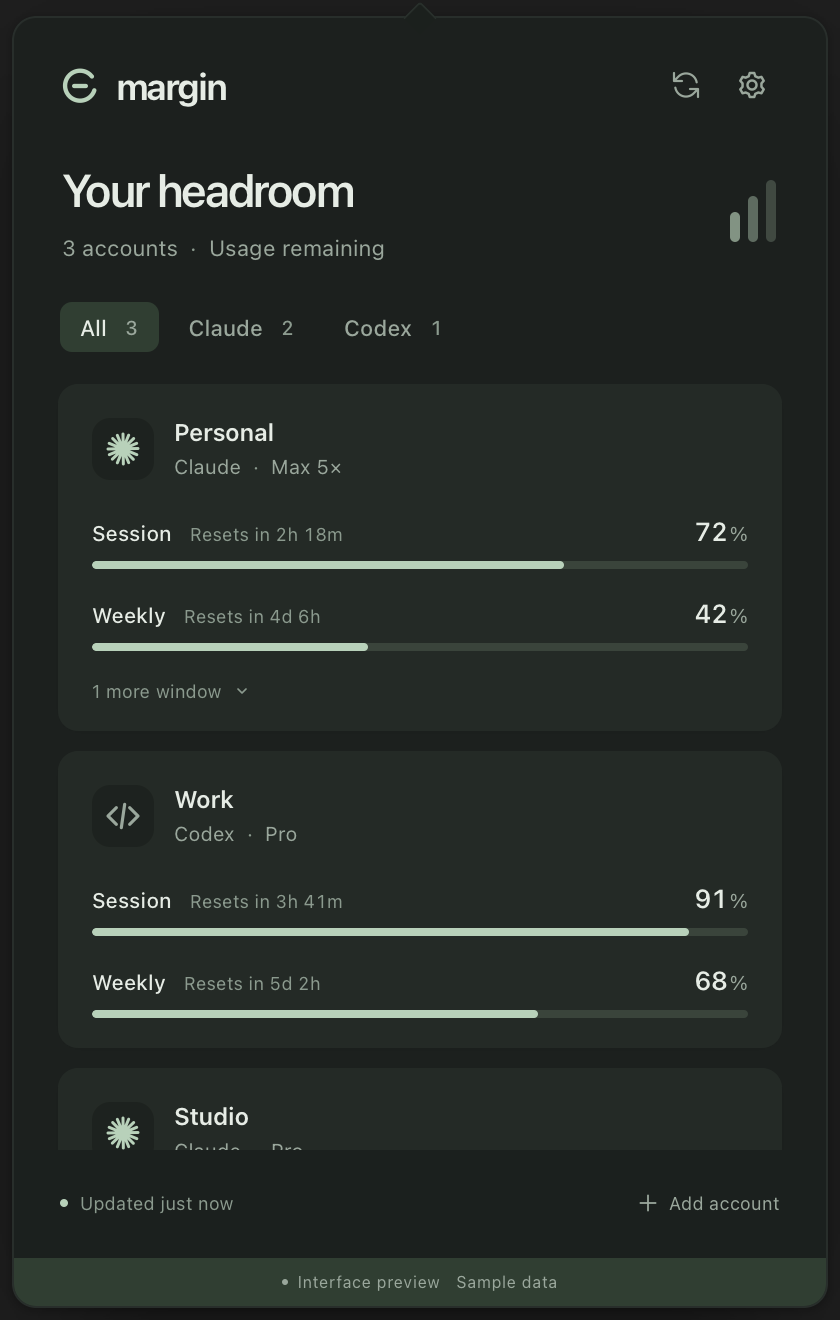
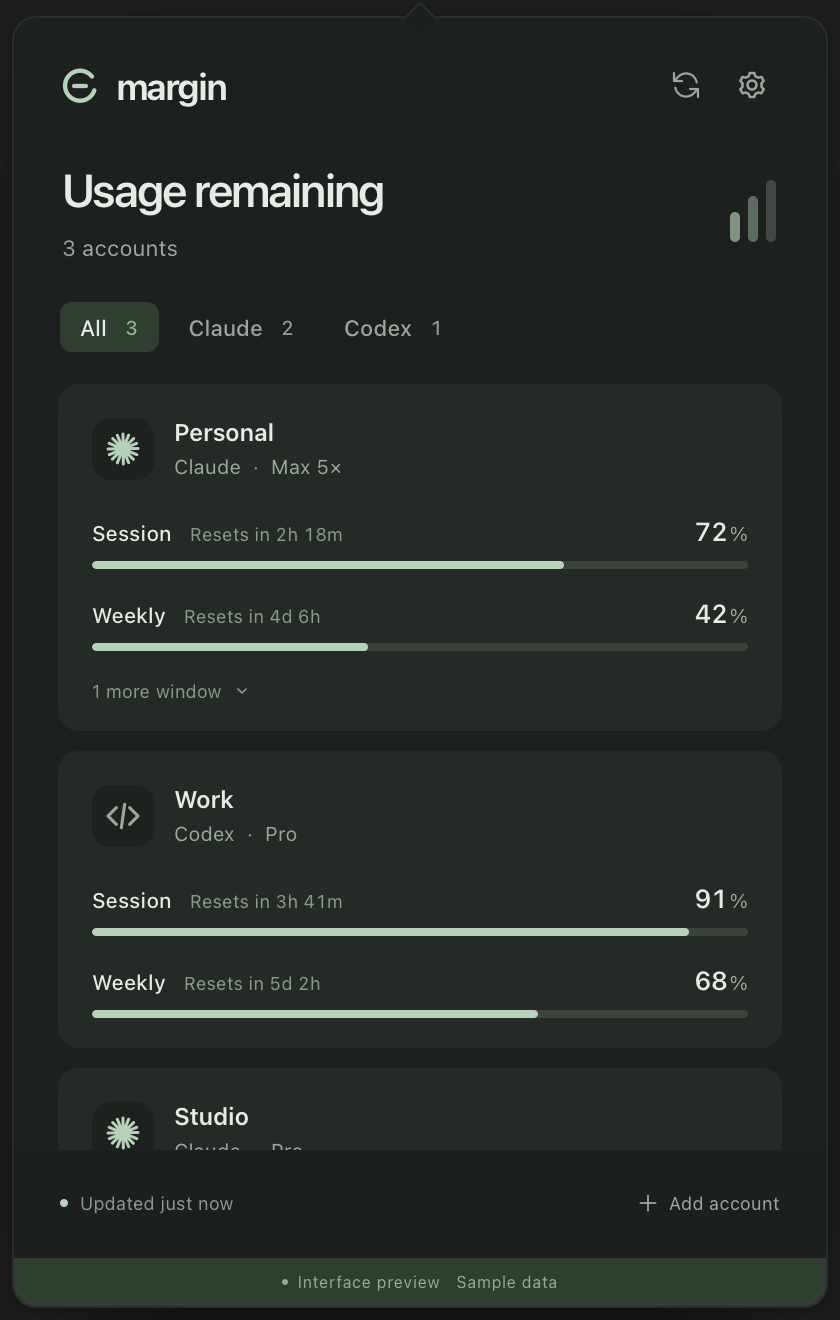
Simplify app wording and add release changelogs

Changed region(s): [[0.0619, 0.1242, 0.4643, 0.1864], [0.2786, 0.1864, 0.4333, 0.2174]]

diff --git a/src/components/SettingsPanel.vue b/src/components/SettingsPanel.vue
@@ -158,7 +158,7 @@ async function confirmRemove(): Promise<void> {
 <template>
   <AlertDialogRoot :open="removeTarget !== null" @update:open="closeRemove">
     <TabsRoot :model-value="tab" class="settings-view" @update:model-value="setTab">
-      <header class="settings-header"><button class="icon-button back-button" aria-label="Back to overview" @click="$emit('back')"><AppIcon name="back" :size="18"/></button><h1>Settings</h1><span class="settings-autosave">Saved automatically</span></header>
+      <header class="settings-header"><button class="icon-button back-button" aria-label="Back to overview" @click="$emit('back')"><AppIcon name="back" :size="18"/></button><h1>Settings</h1><span class="settings-autosave">Saves automatically</span></header>
       <TabsList class="settings-tabs" aria-label="Settings sections">
         <TabsTrigger value="general">General</TabsTrigger>
         <TabsTrigger value="accounts">Accounts <span>{{ accounts.length }}</span></TabsTrigger>
@@ -170,7 +170,7 @@ async function confirmRemove(): Promise<void> {
           <div class="theme-options"><button v-for="theme in themes" :key="theme.id" class="theme-option" :class="{ selected: settings.theme === theme.id }" :aria-pressed="settings.theme === theme.id" :disabled="busy" @click="patchSettings({ theme: theme.id })"><span class="theme-thumbnail" :class="`thumbnail-${theme.id}`"><span/><span/><span/></span><span><AppIcon :name="theme.icon" :size="13"/>{{ theme.label }}</span><span v-if="settings.theme === theme.id" class="theme-check"><AppIcon name="check" :size="10"/></span></button></div>
         </section>
         <section class="settings-section">
-          <h2>Menu bar &amp; refresh</h2>
+          <h2>Tray &amp; refresh</h2>
           <div class="setting-row">
             <div><label for="tray-account">Tray account</label><p>Shows the lowest remaining window.</p></div>
             <AppSelect id="tray-account" :model-value="selectedMode" :options="trayOptions" :disabled="busy" @update:model-value="setTray"/>
@@ -186,19 +186,19 @@ async function confirmRemove(): Promise<void> {
         </section>
         <section class="settings-section">
           <h2>Notifications</h2>
-          <div class="setting-row"><div><span id="notification-label" class="setting-label">Usage reminders</span><p>A heads-up as a window fills up.</p></div><AppSwitch :model-value="settings.notifications" aria-labelledby="notification-label" :disabled="busy" @update:model-value="patchSettings({ notifications: $event })"/></div>
+          <div class="setting-row"><span id="notification-label" class="setting-label">Usage alerts</span><AppSwitch :model-value="settings.notifications" aria-labelledby="notification-label" :disabled="busy" @update:model-value="patchSettings({ notifications: $event })"/></div>
           <div class="threshold-options" :class="{ 'is-disabled': !settings.notifications }"><span>Notify at</span><button v-for="threshold in [80, 95, 100]" :key="threshold" class="threshold-chip" :class="{ selected: settings.thresholds.includes(threshold) }" :aria-pressed="settings.thresholds.includes(threshold)" :aria-label="`Notify at ${threshold}% used`" :disabled="busy || !settings.notifications" @click="toggleThreshold(threshold)"><AppIcon v-if="settings.thresholds.includes(threshold)" name="check" :size="11"/>{{ threshold }}%</button><span>used</span></div>
         </section>
         <section class="settings-section">
           <h2>Startup</h2>
-          <div class="setting-row"><div><span id="autostart-label" class="setting-label">Launch at login</span><p>Ready when you are.</p></div><AppSwitch :model-value="settings.autostart" aria-labelledby="autostart-label" :disabled="busy" @update:model-value="patchSettings({ autostart: $event })"/></div>
+          <div class="setting-row"><span id="autostart-label" class="setting-label">Launch at login</span><AppSwitch :model-value="settings.autostart" aria-labelledby="autostart-label" :disabled="busy" @update:model-value="patchSettings({ autostart: $event })"/></div>
         </section>
         <UpdateSettings :state="updateState" :busy="updateBusy" :demo="demo" @check="$emit('checkUpdate')" @install="$emit('installUpdate')"/>
-        <p class="settings-footnote"><AppIcon name="margin" :size="13"/>Margin {{ version }}<span>Made for a little more clarity.</span></p>
+        <p class="settings-footnote">Version {{ version }}</p>
       </TabsContent>
 
       <TabsContent value="accounts" class="settings-content accounts-settings">
-        <div class="section-heading"><div><h2>Your accounts</h2><p>Connected through your local CLI.</p></div><button class="text-button discover-button" :disabled="busy" @click="$emit('discover')"><AppIcon name="refresh" :size="13"/>Find accounts</button></div>
+        <div class="section-heading"><div><h2>Your accounts</h2><p>From your CLI logins.</p></div><button class="text-button discover-button" :disabled="busy" @click="$emit('discover')"><AppIcon name="refresh" :size="13"/>Find accounts</button></div>
         <div v-if="!accounts.length" class="settings-empty"><AppIcon name="folder" :size="28"/><p>No accounts connected.</p><span>Find a signed-in Claude or Codex account, or add a config folder below.</span></div>
         <article v-for="account in accounts" :key="account.id" class="managed-account">
           <div class="managed-account-heading"><span class="provider-mark small" :class="account.provider"><AppIcon :name="account.provider" :size="17"/></span><div class="managed-account-copy"><h3>{{ account.label }}</h3><p>{{ account.identity.email ?? providerName(account.provider) }}</p></div><AppTooltip text="Rename account"><button class="icon-button" :aria-label="`Rename ${account.label}`" :disabled="busy" @click="startRename(account)"><AppIcon name="edit" :size="14"/></button></AppTooltip><AppTooltip text="Remove account"><button class="icon-button remove-button" :aria-label="`Remove ${account.label}`" :disabled="busy" @click="openRemove(account, $event)"><AppIcon name="trash" :size="14"/></button></AppTooltip></div>
@@ -207,7 +207,7 @@ async function confirmRemove(): Promise<void> {
         </article>
         <button v-if="!adding" ref="addAccountButton" class="add-account-button" :disabled="busy" @click="openAdd"><AppIcon name="plus" :size="16"/>Add account</button>
         <form v-else class="add-account-form" @submit.prevent="submitAccount"><div class="form-heading"><h3>Add account</h3><button class="icon-button" type="button" aria-label="Cancel adding account" @click="adding = false"><AppIcon name="close" :size="15"/></button></div><div class="provider-options"><button v-for="choice in providerSchema.options" :key="choice" type="button" :class="{ selected: provider === choice }" :aria-pressed="provider === choice" @click="provider = choice"><AppIcon :name="choice" :size="16"/>{{ providerName(choice) }}</button></div><label for="account-path">Config folder</label><input id="account-path" ref="pathInput" v-model="path" class="text-input" :placeholder="provider === 'claude' ? '~/.claude-work' : '~/.codex-work'" autocomplete="off" spellcheck="false" :disabled="busy" :aria-invalid="Boolean(formError)" :aria-describedby="formError ? 'path-help path-error' : 'path-help'"><p id="path-help">The folder containing {{ provider === 'claude' ? '.credentials.json' : 'auth.json' }}. Sign in with the CLI first.</p><p v-if="formError" id="path-error" class="field-error" role="alert">{{ formError }}</p><button class="button button-primary" type="submit" :disabled="busy">Connect account<AppIcon name="plus" :size="14"/></button></form>
-        <div class="privacy-note"><AppIcon name="check" :size="14"/><p>Your credentials stay on this device. Margin reads usage without changing your CLI accounts.</p></div>
+        <div class="privacy-note"><AppIcon name="check" :size="14"/><p>Margin reads your CLI credentials without changing them.</p></div>
       </TabsContent>
     </TabsRoot>
 
@@ -216,7 +216,7 @@ async function confirmRemove(): Promise<void> {
         <AlertDialogContent class="confirm-dialog" @escape-key-down="escapeRemove" @close-auto-focus="restoreRemoveFocus">
           <span class="dialog-icon"><AppIcon name="trash" :size="20"/></span>
           <AlertDialogTitle as="h2">Remove {{ removeTarget?.label }}?</AlertDialogTitle>
-          <AlertDialogDescription as="p">This removes the account from Margin. Your CLI credentials stay untouched.</AlertDialogDescription>
+          <AlertDialogDescription as="p">Removes the account from Margin. CLI credentials are not deleted.</AlertDialogDescription>
           <p v-if="removeFailed" class="field-error" role="alert">Couldn’t remove this account. Try again.</p>
           <div class="dialog-actions"><AlertDialogCancel class="button" tabindex="0" :disabled="busy">Keep account</AlertDialogCancel><button ref="removeButton" class="button button-danger" tabindex="0" :disabled="busy" @click="confirmRemove">Remove account</button></div>
         </AlertDialogContent>

diff --git a/design/directions.html b/design/directions.html
@@ -8,11 +8,11 @@
   </style>
 </head>
 <body>
-  <header><div><div class="eyebrow">Margin / visual exploration</div><h1>A little more breathing room.</h1><p>Three directions for a quiet, considered home for Claude and Codex usage. Same information, different character. All values below are sample data.</p></div><button onclick="document.body.classList.toggle('dark')">Swap appearances</button></header>
+  <header><div><div class="eyebrow">Margin / visual exploration</div><h1>Design directions</h1><p>Three layouts for Claude and Codex usage. All values are sample data.</p></div><button onclick="document.body.classList.toggle('dark')">Switch theme</button></header>
   <main class="directions">
-    <section class="graphite"><div class="label"><b>01 / Graphite</b><span>Selected direction</span></div><div class="popover"><div class="head"><i></i>margin<span>↻ &nbsp; ⚙</span></div><div class="title">Your headroom</div><div class="meta">3 accounts. One quiet place.</div><div class="account"><div class="account-head"><div class="logo">✳</div>Personal<span class="plan">CLAUDE MAX</span></div><div class="row"><span>Session<small>Resets in 2h 18m</small></span><b>72%</b></div><div class="bar"><div style="width:72%"></div></div><div class="row"><span>Weekly<small>Resets in 4d 6h</small></span><b>42%</b></div><div class="bar"><div style="width:42%"></div></div></div><div class="account"><div class="account-head"><div class="logo">⌘</div>Work<span class="plan">CODEX PRO</span></div><div class="row"><span>Session<small>Resets in 3h 41m</small></span><b>91%</b></div><div class="bar"><div style="width:91%"></div></div><div class="row"><span>Weekly<small>Resets in 5d 2h</small></span><b>68%</b></div><div class="bar"><div style="width:68%"></div></div></div><div class="footer"><span>● Updated just now</span><span>＋ Add account</span></div></div><p class="note">Quiet graphite, soft sage, generous rhythm. Information is the interface. Warm daylight appearance.</p></section>
-    <section class="ivory"><div class="label"><b>02 / Paper</b><span>Warm / tactile</span></div><div class="popover"><div class="head"><i></i>margin<span>↻ &nbsp; ⚙</span></div><div class="title">Space to think.</div><div class="meta">Your accounts, comfortably in view.</div><div class="account"><div class="account-head"><div class="logo">✳</div>Personal<span class="plan">CLAUDE MAX</span></div><div class="row"><span>Session<small>2h 18m</small></span><b>72%</b></div><div class="bar"><div style="width:72%"></div></div><div class="row"><span>Weekly<small>4d 6h</small></span><b>42%</b></div><div class="bar"><div style="width:42%"></div></div></div><div class="account"><div class="account-head"><div class="logo">⌘</div>Work<span class="plan">CODEX PRO</span></div><div class="row"><span>Session<small>3h 41m</small></span><b>91%</b></div><div class="bar"><div style="width:91%"></div></div><div class="row"><span>Weekly<small>5d 2h</small></span><b>68%</b></div><div class="bar"><div style="width:68%"></div></div></div><div class="footer"><span>● Everything is up to date</span><span>＋ Add account</span></div></div><p class="note">Soft paper and olive. More domestic than technical. Charcoal and muted moss after dark.</p></section>
-    <section class="instrument"><div class="label"><b>03 / Instrument</b><span>Compact / precise</span></div><div class="popover"><div class="head"><i></i>margin<span>↻ &nbsp; ⚙</span></div><div class="title">42<small>% lowest remaining</small></div><div class="meta">Personal · Claude · Weekly window</div><div class="account"><div class="account-head"><div class="logo">✳</div>Personal<span class="plan">CLAUDE MAX</span></div><div class="row"><span>SESSION / 02:18</span><b>72%</b></div><div class="bar"><div style="width:72%"></div></div><div class="row"><span>WEEKLY / 04:06:00</span><b>42%</b></div><div class="bar"><div style="width:42%"></div></div></div><div class="account"><div class="account-head"><div class="logo">⌘</div>Work<span class="plan">CODEX PRO</span></div><div class="row"><span>SESSION / 03:41</span><b>91%</b></div><div class="bar"><div style="width:91%"></div></div><div class="row"><span>WEEKLY / 05:02:00</span><b>68%</b></div><div class="bar"><div style="width:68%"></div></div></div><div class="footer"><span>● SYNCED 12:04:18</span><span>＋ ACCOUNT</span></div></div><p class="note">Dense, almost an instrument panel. A prominent limiting window and a precise rhythm.</p></section>
+    <section class="graphite"><div class="label"><b>01 / Graphite</b><span>Selected direction</span></div><div class="popover"><div class="head"><i></i>margin<span>↻ &nbsp; ⚙</span></div><div class="title">Usage remaining</div><div class="meta">3 accounts</div><div class="account"><div class="account-head"><div class="logo">✳</div>Personal<span class="plan">CLAUDE MAX</span></div><div class="row"><span>Session<small>Resets in 2h 18m</small></span><b>72%</b></div><div class="bar"><div style="width:72%"></div></div><div class="row"><span>Weekly<small>Resets in 4d 6h</small></span><b>42%</b></div><div class="bar"><div style="width:42%"></div></div></div><div class="account"><div class="account-head"><div class="logo">⌘</div>Work<span class="plan">CODEX PRO</span></div><div class="row"><span>Session<small>Resets in 3h 41m</small></span><b>91%</b></div><div class="bar"><div style="width:91%"></div></div><div class="row"><span>Weekly<small>Resets in 5d 2h</small></span><b>68%</b></div><div class="bar"><div style="width:68%"></div></div></div><div class="footer"><span>● Updated just now</span><span>＋ Add account</span></div></div><p class="note">Graphite surfaces, sage accents, and a light theme.</p></section>
+    <section class="ivory"><div class="label"><b>02 / Paper</b><span>Warm / tactile</span></div><div class="popover"><div class="head"><i></i>margin<span>↻ &nbsp; ⚙</span></div><div class="title">Usage remaining</div><div class="meta">3 accounts</div><div class="account"><div class="account-head"><div class="logo">✳</div>Personal<span class="plan">CLAUDE MAX</span></div><div class="row"><span>Session<small>2h 18m</small></span><b>72%</b></div><div class="bar"><div style="width:72%"></div></div><div class="row"><span>Weekly<small>4d 6h</small></span><b>42%</b></div><div class="bar"><div style="width:42%"></div></div></div><div class="account"><div class="account-head"><div class="logo">⌘</div>Work<span class="plan">CODEX PRO</span></div><div class="row"><span>Session<small>3h 41m</small></span><b>91%</b></div><div class="bar"><div style="width:91%"></div></div><div class="row"><span>Weekly<small>5d 2h</small></span><b>68%</b></div><div class="bar"><div style="width:68%"></div></div></div><div class="footer"><span>● Everything is up to date</span><span>＋ Add account</span></div></div><p class="note">Cream and olive in light mode. Charcoal and moss in dark mode.</p></section>
+    <section class="instrument"><div class="label"><b>03 / Instrument</b><span>Compact / precise</span></div><div class="popover"><div class="head"><i></i>margin<span>↻ &nbsp; ⚙</span></div><div class="title">42<small>% lowest remaining</small></div><div class="meta">Personal · Claude · Weekly window</div><div class="account"><div class="account-head"><div class="logo">✳</div>Personal<span class="plan">CLAUDE MAX</span></div><div class="row"><span>SESSION / 02:18</span><b>72%</b></div><div class="bar"><div style="width:72%"></div></div><div class="row"><span>WEEKLY / 04:06:00</span><b>42%</b></div><div class="bar"><div style="width:42%"></div></div></div><div class="account"><div class="account-head"><div class="logo">⌘</div>Work<span class="plan">CODEX PRO</span></div><div class="row"><span>SESSION / 03:41</span><b>91%</b></div><div class="bar"><div style="width:91%"></div></div><div class="row"><span>WEEKLY / 05:02:00</span><b>68%</b></div><div class="bar"><div style="width:68%"></div></div></div><div class="footer"><span>● SYNCED 12:04:18</span><span>＋ ACCOUNT</span></div></div><p class="note">Compact layout with the lowest remaining quota at the top.</p></section>
   </main>
 </body>
 </html>

diff --git a/src/App.vue b/src/App.vue
@@ -47,7 +47,7 @@ const status = computed(() => {
   if (connectionError.value) return 'Connection interrupted'
   if (staleCount.value) return `${staleCount.value} ${staleCount.value === 1 ? 'account needs' : 'accounts need'} attention`
   if (latestFetch.value) return `Updated ${relativeAge(latestFetch.value, now.value)}`
-  return 'Ready to connect'
+  return state.value.accounts.length ? 'Waiting for usage' : 'No accounts connected'
 })
 
 watch(counts, value => {
@@ -137,11 +137,11 @@ onUnmounted(() => {
   <div class="preview-stage" :class="{ 'desktop-stage': desktop && !demo }">
     <div v-if="!desktop && !demo" class="desktop-gate">
       <span class="gate-logo"><AppIcon name="margin" :size="36"/></span>
-      <p class="eyebrow">CLAUDE + CODEX, IN VIEW</p><h1>A little more<br>headroom.</h1>
-      <p class="gate-description">Margin lives in your menu bar. Your accounts, usage windows, and reset times. In one quiet place.</p>
-      <a class="button button-primary" href="https://github.com/Abulkosim/usagebar/releases" target="_blank" rel="noopener noreferrer">Get the desktop app<AppIcon name="external" :size="14"/></a>
-      <a class="preview-link" href="?demo=1">Explore the interface <span>with sample data</span><AppIcon name="chevron" :size="12"/></a>
-      <p class="gate-footnote">macOS &amp; Windows · Your credentials stay on your device</p>
+      <p class="eyebrow">CLAUDE + CODEX</p><h1>Track your usage.</h1>
+      <p class="gate-description">See account limits and reset times in the macOS menu bar or Windows system tray.</p>
+      <a class="button button-primary" href="https://github.com/Abulkosim/usagebar/releases" target="_blank" rel="noopener noreferrer">Download Margin<AppIcon name="external" :size="14"/></a>
+      <a class="preview-link" href="?demo=1">Preview <span>with sample data</span><AppIcon name="chevron" :size="12"/></a>
+      <p class="gate-footnote">Reads CLI credentials without changing them.</p>
     </div>
 
     <div v-else class="app-shell" :class="{ 'is-preview': demo }">
@@ -150,13 +150,13 @@ onUnmounted(() => {
         <div v-if="state.notice" class="notice-banner" role="alert"><AppIcon name="alert" :size="13"/><span>{{ state.notice }}</span></div>
         <template v-if="page === 'overview'">
           <header class="app-header"><div class="wordmark"><AppIcon name="margin" :size="20"/><span>margin</span></div><div class="header-actions"><AppTooltip :text="refreshing ? 'Checking usage' : `Refresh usage (${isWindows ? 'Ctrl+R' : '⌘R'})`"><button class="icon-button refresh-button" :class="{ pulsing: refreshing }" aria-label="Refresh usage" :disabled="busy || refreshing" @click="refresh"><AppIcon name="refresh" :size="16"/></button></AppTooltip><AppTooltip :text="`Settings (${isWindows ? 'Ctrl+,' : '⌘,'})`"><button class="icon-button" aria-label="Open settings" @click="openSettings()"><AppIcon name="settings" :size="18"/></button></AppTooltip></div></header>
-          <div class="overview-heading"><div><h1>Your headroom</h1><p>{{ state.accounts.length ? `${state.accounts.length} ${state.accounts.length === 1 ? 'account' : 'accounts'}` : 'A little clarity for your day' }}<template v-if="state.accounts.length"><span class="middot">·</span>Usage remaining</template></p></div><span v-if="state.accounts.length" class="overview-symbol" aria-hidden="true"><span/><span/><span/></span></div>
+          <div class="overview-heading"><div><h1>Usage remaining</h1><p>{{ state.accounts.length ? `${state.accounts.length} ${state.accounts.length === 1 ? 'account' : 'accounts'}` : 'Claude and Codex' }}</p></div><span v-if="state.accounts.length" class="overview-symbol" aria-hidden="true"><span/><span/><span/></span></div>
           <div v-if="state.accounts.length > 1" class="account-filters" role="group" aria-label="Filter by provider"><button v-for="option in filterOptions" :key="option.id" :class="{ active: filter === option.id }" :aria-pressed="filter === option.id" @click="filter = option.id">{{ option.label }}<span>{{ counts[option.id] }}</span></button></div>
 
           <main class="accounts-scroll" :class="{ 'empty-scroll': !state.accounts.length }" aria-label="Account usage">
             <div v-if="loading" class="initial-loading" role="status" aria-label="Loading accounts"><div v-for="index in 2" :key="index" class="skeleton-card"><div class="skeleton skeleton-heading"/><div class="skeleton skeleton-label"/><div class="skeleton skeleton-bar"/><div class="skeleton skeleton-label"/><div class="skeleton skeleton-bar"/></div><p>Reading your accounts…</p></div>
             <div v-else-if="connectionError && !state.accounts.length" class="empty-state"><span class="load-error-symbol"><AppIcon name="alert" :size="28"/></span><h2>Couldn’t load your accounts.</h2><p>{{ connectionError }}</p><button class="button button-primary" :disabled="busy" @click="refresh"><AppIcon name="refresh" :size="14"/>Try again</button></div>
-            <div v-else-if="!state.accounts.length" class="empty-state"><div class="empty-illustration" aria-hidden="true"><div class="empty-orbit orbit-one"/><div class="empty-orbit orbit-two"/><span class="empty-provider empty-claude"><AppIcon name="claude" :size="24"/></span><span class="empty-provider empty-codex"><AppIcon name="codex" :size="23"/></span><span class="empty-center"><AppIcon name="margin" :size="27"/></span></div><h2>A home for your accounts.</h2><p>See your Claude and Codex limits together.<br>Connect accounts already signed in on this device.</p><button class="button button-primary" :disabled="busy" @click="discover"><AppIcon name="refresh" :size="14"/>Find my accounts</button><button class="text-button" @click="openSettings('accounts')">Add a config folder<AppIcon name="plus" :size="13"/></button><span class="empty-privacy">Read-only. Your credentials stay yours.</span></div>
+            <div v-else-if="!state.accounts.length" class="empty-state"><div class="empty-illustration" aria-hidden="true"><div class="empty-orbit orbit-one"/><div class="empty-orbit orbit-two"/><span class="empty-provider empty-claude"><AppIcon name="claude" :size="24"/></span><span class="empty-provider empty-codex"><AppIcon name="codex" :size="23"/></span><span class="empty-center"><AppIcon name="margin" :size="27"/></span></div><h2>Add your accounts</h2><p>Connect Claude or Codex accounts already signed in on this device.</p><button class="button button-primary" :disabled="busy" @click="discover"><AppIcon name="refresh" :size="14"/>Find accounts</button><button class="text-button" @click="openSettings('accounts')">Add a config folder<AppIcon name="plus" :size="13"/></button><span class="empty-privacy">Reads CLI credentials without changing them.</span></div>
             <template v-else><AccountCard v-for="account in visibleAccounts" :key="account.id" :account="account" :settings="state.settings" :now="now" :pinned="state.settings.trayMode === 'pinned' && state.settings.pinnedAccountId === account.id" :busy="busy" :connection-error="connectionError" @pin="togglePin(account)" @refresh="refresh"/><div v-if="!visibleAccounts.length" class="filter-empty"><AppIcon :name="filter === 'claude' ? 'claude' : 'codex'" :size="25"/><p>No {{ filter === 'claude' ? 'Claude' : 'Codex' }} accounts yet.</p><button class="text-button" @click="openSettings('accounts')">Add an account<AppIcon name="plus" :size="13"/></button></div></template>
           </main>
           <footer class="app-footer"><span class="sync-status" :class="{ warning: staleCount || connectionError, pulsing: refreshing }" role="status"><span class="status-dot"/>{{ status }}</span><button class="text-button footer-add" @click="openSettings('accounts')"><AppIcon name="plus" :size="13"/>Add account</button></footer>

diff --git a/tests/e2e/popover.spec.ts b/tests/e2e/popover.spec.ts
@@ -2,9 +2,9 @@ import { expect, test } from '@playwright/test'
 
 test('browser entry never pretends to read real accounts', async ({ page }) => {
   await page.goto('/')
-  await expect(page.getByRole('heading', { name: 'A little more headroom.' })).toBeVisible()
+  await expect(page.getByRole('heading', { name: 'Track your usage.' })).toBeVisible()
   await expect(page.getByRole('article')).toHaveCount(0)
-  await page.getByRole('link', { name: /Explore the interface/ }).click()
+  await page.getByRole('link', { name: /Preview with sample data/ }).click()
   await expect(page.getByText('Sample data', { exact: true })).toBeVisible()
 })
 
@@ -15,7 +15,7 @@ for (const theme of ['dark', 'light']) {
     await page.goto(`/?demo=1&theme=${theme}`)
     await expect(page.locator('html')).toHaveAttribute('data-theme', theme)
     await expect(page.getByRole('article')).toHaveCount(3)
-    await expect(page.getByRole('heading', { name: 'Your headroom' })).toBeVisible()
+    await expect(page.getByRole('heading', { name: 'Usage remaining' })).toBeVisible()
     await expect(page.getByText('Sample data', { exact: true })).toBeVisible()
     expect(await page.evaluate(() => document.documentElement.scrollWidth <= window.innerWidth)).toBe(true)
     await info.attach(`overview-${theme}`, { body: await page.screenshot(), contentType: 'image/png' })
@@ -55,8 +55,8 @@ test('account without a reading shows no invented percentage', async ({ page }) 
 
 test('empty-state discovery is explicitly a preview', async ({ page }) => {
   await page.goto('/?demo=1&state=empty')
-  await expect(page.getByRole('heading', { name: 'A home for your accounts.' })).toBeVisible()
-  await page.getByRole('button', { name: 'Find my accounts' }).click()
+  await expect(page.getByRole('heading', { name: 'Add your accounts' })).toBeVisible()
+  await page.getByRole('button', { name: 'Find accounts' }).click()
   await expect(page.getByRole('article')).toHaveCount(3)
   await expect(page.getByText('Sample accounts found.')).toBeVisible()
 })
@@ -66,8 +66,8 @@ test('settings save theme and notification preferences', async ({ page }, info) 
   await page.getByRole('button', { name: 'Open settings' }).click()
   await page.getByRole('button', { name: 'Light', exact: true }).click()
   await expect(page.locator('html')).toHaveAttribute('data-theme', 'light')
-  await page.getByRole('switch', { name: 'Usage reminders' }).click()
-  await expect(page.getByRole('switch', { name: 'Usage reminders' })).toHaveAttribute('aria-checked', 'true')
+  await page.getByRole('switch', { name: 'Usage alerts' }).click()
+  await expect(page.getByRole('switch', { name: 'Usage alerts' })).toHaveAttribute('aria-checked', 'true')
   await page.getByRole('combobox', { name: 'Refresh while open', exact: true }).click()
   await page.getByRole('option', { name: '2 minutes', exact: true }).click()
   await expect(page.getByRole('combobox', { name: 'Refresh while open', exact: true })).toContainText('2 minutes')

diff --git a/src/components/settings/UpdateSettings.vue b/src/components/settings/UpdateSettings.vue
@@ -9,15 +9,15 @@ const emit = defineEmits<{ check: []; install: [] }>()
 const progress = computed(() => props.state.kind === 'downloading' && props.state.total
   ? Math.min(100, Math.round(props.state.downloaded / props.state.total * 100)) : undefined)
 const copy = computed(() => {
-  if (props.demo) return 'Updates are available in the desktop app.'
+  if (props.demo) return 'Update checks require the desktop app.'
   const state = props.state
   switch (state.kind) {
-    case 'idle': return 'Check when you’re ready.'
-    case 'checking': return 'Looking for a newer version…'
-    case 'current': return 'You’re up to date.'
-    case 'available': return `Version ${state.version} is ready.`
+    case 'idle': return 'Updates are checked manually.'
+    case 'checking': return 'Checking for updates…'
+    case 'current': return 'Up to date.'
+    case 'available': return `Version ${state.version} available.`
     case 'downloading': return `Downloading ${state.version}…`
-    case 'installing': return 'Installing. Margin will restart shortly.'
+    case 'installing': return 'Installing. Margin will restart.'
     case 'error': return state.message
     default: { const exhaustive: never = state; return exhaustive }
   }
@@ -44,7 +44,6 @@ function activate(): void {
       <p class="update-message" :class="{ 'update-error': state.kind === 'error' }" :role="state.kind === 'error' ? 'alert' : 'status'">{{ copy }}</p>
       <div v-if="state.kind === 'downloading'" class="update-progress" :class="{ indeterminate: progress === undefined }" role="progressbar" aria-label="Update download" :aria-valuenow="progress" :aria-valuemin="0" :aria-valuemax="100"><span :style="{ width: progress === undefined ? '35%' : `${progress}%` }"/></div>
       <button class="button button-small update-action" :class="{ 'button-primary': state.kind === 'available' }" :aria-disabled="busy || demo" :aria-busy="busy" @click="activate">{{ action }}</button>
-      <p v-if="!demo" class="update-note">Only on your say-so. No background downloads.</p>
     </div>
   </section>
 </template>
@@ -60,7 +59,6 @@ function activate(): void {
 .update-error { color: var(--danger); }
 .update-action { min-height: 30px; }
 .update-action[aria-disabled="true"] { opacity: .55; cursor: default; }
-.update-note { margin: 10px 0 0; color: var(--tertiary); font-size: 9px; line-height: 1.5; }
 .update-progress { overflow: hidden; height: 4px; background: var(--track); border-radius: 3px; margin: 0 0 12px; }
 .update-progress>span { display: block; height: 100%; background: var(--accent); border-radius: inherit; transition: width .2s ease; }
 .update-progress.indeterminate>span { animation: update-travel 1.6s ease-in-out infinite alternate; }

diff --git a/tests/e2e/controls.spec.ts b/tests/e2e/controls.spec.ts
@@ -115,7 +115,7 @@ test('Escape closes a select before leaving Settings and returns trigger focus',
   await expect(trigger).toBeFocused()
   await expect(page.getByRole('heading', { name: 'Settings', exact: true })).toBeVisible()
   await page.keyboard.press('Escape')
-  await expect(page.getByRole('heading', { name: 'Your headroom', exact: true })).toBeVisible()
+  await expect(page.getByRole('heading', { name: 'Usage remaining', exact: true })).toBeVisible()
 })
 
 for (const theme of ['light', 'dark']) {
@@ -196,7 +196,7 @@ test('settings tabs and reminder switch work entirely from the keyboard', async 
   await page.keyboard.press('ArrowLeft')
   await expect(general).toBeFocused()
   await expect(general).toHaveAttribute('aria-selected', 'true')
-  const reminders = page.getByRole('switch', { name: 'Usage reminders', exact: true })
+  const reminders = page.getByRole('switch', { name: 'Usage alerts', exact: true })
   await reminders.focus()
   await page.keyboard.press('Space')
   await expect(reminders).toHaveAttribute('aria-checked', 'true')
@@ -270,7 +270,7 @@ test('failed saves keep the previously saved select and switch values', async ({
   await expect(page.getByRole('listbox')).toHaveCount(0)
   await expect(interval).toContainText('1 minute')
   await expect(interval).toBeFocused()
-  const reminders = page.getByRole('switch', { name: 'Usage reminders', exact: true })
+  const reminders = page.getByRole('switch', { name: 'Usage alerts', exact: true })
   await reminders.focus()
   await page.keyboard.press('Space')
   await expect(reminders).toBeDisabled()
@@ -310,7 +310,7 @@ test('tooltips support focus and Escape without native title bubbles', async ({ 
   await page.keyboard.press('Escape')
   await expect(page.getByRole('tooltip')).toHaveCount(0)
   await expect(settings).toBeFocused()
-  await expect(page.getByRole('heading', { name: 'Your headroom', exact: true })).toBeVisible()
+  await expect(page.getByRole('heading', { name: 'Usage remaining', exact: true })).toBeVisible()
   await page.keyboard.press('Enter')
   await expect(page.getByRole('heading', { name: 'Settings', exact: true })).toBeVisible()
   await page.getByRole('tab', { name: /^Accounts/ }).click()

diff --git a/tests/e2e/updater.spec.ts b/tests/e2e/updater.spec.ts
@@ -79,7 +79,7 @@ test('updates require explicit check and install, preserve focus, and survive Se
   await expect(updates.getByRole('progressbar')).toHaveAttribute('aria-valuenow', '25')
   await expect(action).toHaveAttribute('aria-disabled', 'true')
   await page.evaluate(() => window.__UPDATE_TEST__?.emit({ revision: 3, state: { kind: 'installing', version: '0.3.0' } }))
-  await expect(updates.getByRole('status')).toHaveText('Installing. Margin will restart shortly.')
+  await expect(updates.getByRole('status')).toHaveText('Installing. Margin will restart.')
   await expect(updates.getByRole('progressbar')).toHaveCount(0)
 })
 
@@ -97,7 +97,7 @@ test('failed update request keeps keyboard focus and offers a safe retry', async
   await expect(action).toHaveAttribute('aria-disabled', 'false')
   await page.keyboard.press('Enter')
   await page.evaluate(() => window.__UPDATE_TEST__?.finish({ revision: 2, state: { kind: 'current' } }))
-  await expect(updates.getByRole('status')).toHaveText('You’re up to date.')
+  await expect(updates.getByRole('status')).toHaveText('Up to date.')
   await expect(action).toBeFocused()
 })
 
@@ -127,7 +127,7 @@ test('preview explains desktop-only updates without invoking the bridge', async 
   await page.goto('/?demo=1')
   await openUpdates(page)
   const updates = page.getByRole('region', { name: 'Updates', exact: true })
-  await expect(updates.getByRole('status')).toHaveText('Updates are available in the desktop app.')
+  await expect(updates.getByRole('status')).toHaveText('Update checks require the desktop app.')
   const action = updates.getByRole('button')
   await expect(action).toHaveAttribute('aria-disabled', 'true')
   await action.focus()

diff --git a/index.html b/index.html
@@ -4,7 +4,7 @@
     <meta charset="UTF-8" />
     <meta name="viewport" content="width=device-width, initial-scale=1.0" />
     <meta name="theme-color" content="#171b19" />
-    <title>Margin — Usage at a glance</title>
+    <title>Margin — Claude and Codex usage</title>
   </head>
   <body>
     <div id="app"></div>

diff --git a/docs/releasing.md b/docs/releasing.md
@@ -7,8 +7,8 @@ Releases are unsigned by a verified publisher. macOS uses ad-hoc signing for App
 1. Run frontend checks and the macOS native smoke checks in [verification.md](verification.md).
 2. Commit both `pnpm-lock.yaml` and `src-tauri/Cargo.lock`. Frontend installs use `--frozen-lockfile`; Rust checks and builds use `--locked`.
 3. Set the same version in `package.json`, `src-tauri/Cargo.toml`, and `src-tauri/tauri.conf.json`.
-4. Update `.github/RELEASE_NOTES.md` with the actual changes, limitations, and unsigned installation guidance.
-5. Run `node --test scripts/*.test.mjs` and `node scripts/check-release.mjs v0.2.0`, substituting the intended version. Release validation requires the public updater key, the GitHub manifest URL, and signed-version enforcement.
+4. Write `changelogs/vX.Y.Z.md` and add it to `CHANGELOG.md`. Use the release date and a few short bullets describing user-visible changes. Link to installation instructions instead of repeating them. The release workflow uses this file for GitHub release notes and the update manifest.
+5. Run `node --test scripts/*.test.mjs` and `node scripts/check-release.mjs v0.2.2`, substituting the intended version. Release validation requires the public updater key, the GitHub manifest URL, and signed-version enforcement.
 6. Push the release commit and confirm all checks on `main` pass. Create and push the matching annotated tag.
 
 Never put real credential files, token values, account IDs, or unredacted provider responses into commits, artifacts, screenshots, or release notes.
@@ -44,7 +44,7 @@ Before the first updater release:
 On macOS, download the draft's `Margin.app.tar.gz` and `.sig` into an artifact directory, then run:
 
 ```sh
-MARGIN_UPDATE_ARTIFACT_DIR="$PWD/.cache/release-v0.2.0" MARGIN_REQUIRE_UNIVERSAL=1 cargo test --manifest-path src-tauri/Cargo.toml --test updater_install --locked -- --ignored --nocapture
+MARGIN_UPDATE_ARTIFACT_DIR="$PWD/.cache/release-v0.2.2" MARGIN_REQUIRE_UNIVERSAL=1 cargo test --manifest-path src-tauri/Cargo.toml --test updater_install --locked -- --ignored --nocapture
 ```
 
 This ignored integration test uses the pinned updater plugin and real public key with a loopback-only fixture server. It rejects altered bytes and mismatched signed versions before replacing a disposable old app, checks the installed version, verifies ad-hoc signing and both Mac architectures, and retains the installed copy under `.cache/upgrade-smoke/` for a launch check. It never opens the installed Margin app or CLI credentials. The fixture allows HTTP only inside the test; production still requires HTTPS. Run it against the exact CI release artifact before publishing. For an early local architecture-only build, omit `MARGIN_REQUIRE_UNIVERSAL`; the test still requires the current Mac architecture. It does not exercise the app's user interface, privileged installation, or Windows installation.
@@ -53,6 +53,6 @@ This ignored integration test uses the pinned updater plugin and real public key
 
 v0.1.1 and earlier have no updater and need one manual upgrade to the first updater-enabled release. Publish the complete asset set together; a draft does not replace the current public update endpoint. Never edit a published release's signed files or reuse a version. To stop offering a bad release, mark it as a prerelease so the latest-release endpoint returns to the previous stable release, then ship a higher fixed version. Clients already updated do not automatically downgrade.
 
-## Roll back v0.2.0
+## Roll back v0.2.2
 
-If a regression blocks normal use, quit Margin and reinstall [v0.1.1](https://github.com/Abulkosim/usagebar/releases/tag/v0.1.1). v0.2.0 does not change the settings schema; keep the existing local settings. CLI credentials remain untouched. v0.1.1 has no updater, so a rollback to it also requires a later manual upgrade. Report the failed interaction and platform, then ship the fix as a new patch release.
+Quit Margin and reinstall [v0.2.1](https://github.com/Abulkosim/usagebar/releases/tag/v0.2.1). Both versions use the same settings format; keep the existing local settings. CLI credentials remain untouched. Report the failed interaction and platform, then ship the fix as a new patch release.

diff --git a/README.md b/README.md
@@ -7,7 +7,7 @@ See remaining quota and reset times across multiple accounts, right from your me
 [![CI](https://github.com/Abulkosim/usagebar/actions/workflows/ci.yml/badge.svg)](https://github.com/Abulkosim/usagebar/actions/workflows/ci.yml)
 [![MIT license](https://img.shields.io/badge/license-MIT-747a87)](LICENSE)
 
-[Download](https://github.com/Abulkosim/usagebar/releases/latest) · [Install](#install) · [Connect accounts](#connect-accounts) · [Privacy](#privacy) · [Develop](#develop)
+[Download](https://github.com/Abulkosim/usagebar/releases/latest) · [Install](#install) · [Connect accounts](#connect-accounts) · [Privacy](#privacy) · [Changelog](CHANGELOG.md) · [Develop](#develop)
 
 <p>
   <img src="docs/images/overview-dark.png" alt="Margin dark browser preview showing sample Claude and Codex accounts" width="300" />
@@ -17,20 +17,20 @@ See remaining quota and reset times across multiple accounts, right from your me
 Browser previews with sample accounts. [Settings preview](docs/images/settings-light.png).
 
 <p>
-  <img src="docs/images/settings-menu-light.png" alt="Margin v0.1.1 light settings preview with a styled account menu and sample accounts" width="260" />
-  <img src="docs/images/settings-menu-dark.png" alt="Margin v0.1.1 dark settings preview with a styled account menu and sample accounts" width="260" />
+  <img src="docs/images/settings-menu-light.png" alt="Margin light settings preview with a styled account menu and sample accounts" width="260" />
+  <img src="docs/images/settings-menu-dark.png" alt="Margin dark settings preview with a styled account menu and sample accounts" width="260" />
 </p>
 
-v0.1.1 settings previews with sample data.
+Settings menus with sample data.
 
 ## What it does
 
 - **Multiple accounts:** discover existing CLI sign-ins or add a configuration folder for each account.
-- **Quota at a glance:** remaining percentages and reset countdowns for reported session, weekly, and model-specific windows. Extra-usage spend appears when Claude reports it.
-- **One quiet tray indicator:** follow a pinned account or the account with the least remaining quota.
-- **Honest stale states:** keep the last successful reading with its age when a request fails. Missing data stays unknown.
+- **Usage:** remaining percentages and reset countdowns for reported session, weekly, and model-specific windows. Extra-usage spend appears when Claude reports it.
+- **Tray indicator:** follow a pinned account or the account with the least remaining quota.
+- **Last known usage:** keep the last successful reading with its age when a request fails. Missing data stays unknown.
 - **Updates on request:** check for new releases in Settings, then install and restart when you choose. Downloads and versions are verified before installation.
-- **Your preferences:** light, dark, or system theme; configurable polling; optional threshold notifications and launch at login.
+- **Settings:** light, dark, or system theme; configurable polling; optional threshold notifications and launch at login.
 
 The published [v0.2.1 release](https://github.com/Abulkosim/usagebar/releases/tag/v0.2.1) fixes clipped popovers when moving between Retina and external displays on macOS. [Release CI](https://github.com/Abulkosim/usagebar/actions/runs/38864063245) passed on macOS and Windows; the signed Mac update was installed through Margin’s update controls. See the [verification record](docs/verification.md) for completed checks.
 

diff --git a/docs/verification.md b/docs/verification.md
@@ -2,7 +2,16 @@
 
 Status must describe checks actually run, not the presence of test code. Record the date, command, platform, and outcome when changing this file.
 
-## Current release: v0.2.1
+## Release candidate: v0.2.2
+
+This release simplifies interface copy and adds per-version changelogs based on Git tags and published release dates. GitHub release notes and updater notes now use the same Markdown file. The native sizing fix is unchanged.
+
+- Production frontend build, 26 frontend unit tests, 68 Chromium/WebKit browser cases, 75 Rust tests, and 14 release-script tests passed locally.
+- All four historical release dates and changelog links were checked against repository history. The new changelog is included in release preflight checks.
+- Five public WebKit screenshots were refreshed at 420 × 660 CSS pixels and 2× scale. Light/dark overviews and Settings menus were visually checked; all retain the sample-data label. The browser entry and empty state were also inspected.
+- Signed release builds and exact artifact checks are pending.
+
+## Previous release: v0.2.1
 
 **[v0.2.1 is published](https://github.com/Abulkosim/usagebar/releases/tag/v0.2.1).** Verified on 2026-10-16.
 

diff --git a/docs/screenshots.md b/docs/screenshots.md
@@ -2,7 +2,7 @@
 
 Public images use explicit sample accounts. Capture from `?demo=1`; never publish a live account, email, configuration path, or credential.
 
-## v0.1.1 captures
+## v0.2.2 captures
 
 Use WebKit at 420×660 CSS pixels and 2× scale. Preserve the sample-data label. Visually inspect each image before linking it in the README or release notes.
 
@@ -10,8 +10,8 @@ Use WebKit at 420×660 CSS pixels and 2× scale. Preserve the sample-data label.
 | --- | --- |
 | `docs/images/settings-menu-light.png` | Captured and inspected: light settings with the account menu open and its selected option visible. |
 | `docs/images/settings-menu-dark.png` | Captured and inspected: the same menu in dark mode. |
-| `docs/images/settings-light.png` | Refreshed and inspected with the new controls. |
-| `docs/images/overview-dark.png`, `overview-light.png` | Refreshed and inspected with sample accounts. |
+| `docs/images/settings-light.png` | Updated wording with notifications off. |
+| `docs/images/overview-dark.png`, `overview-light.png` | “Usage remaining” heading with sample accounts. |
 
 All five PNGs are 840×1320 pixels and retain the sample-data label.
 
